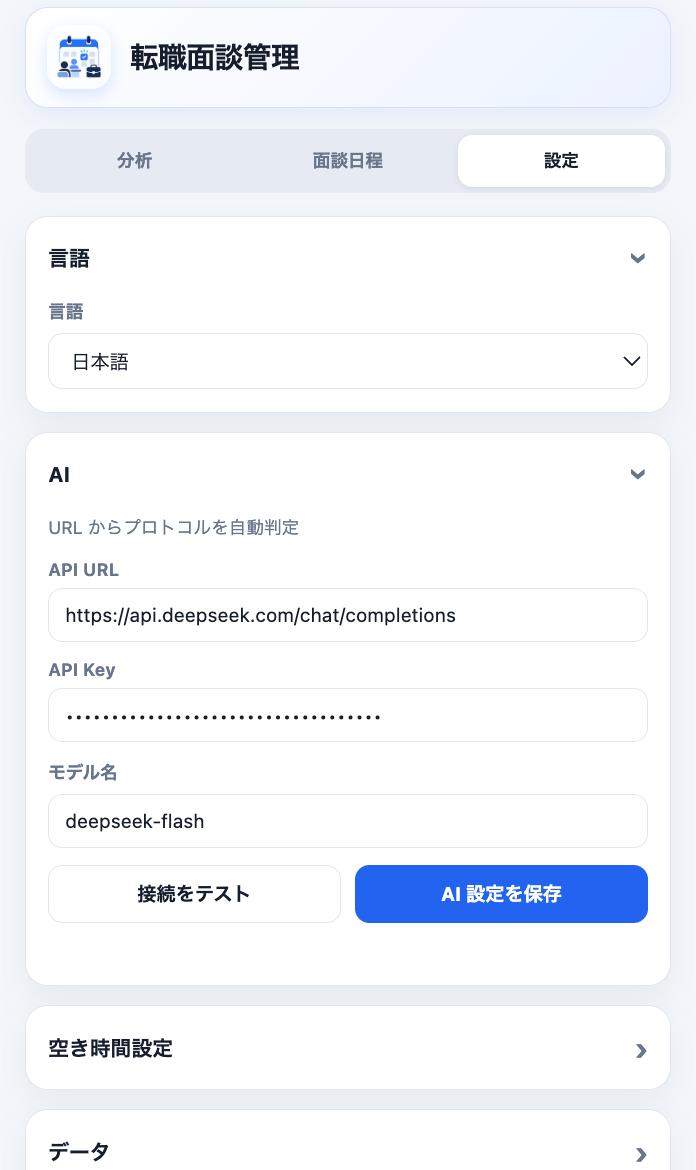
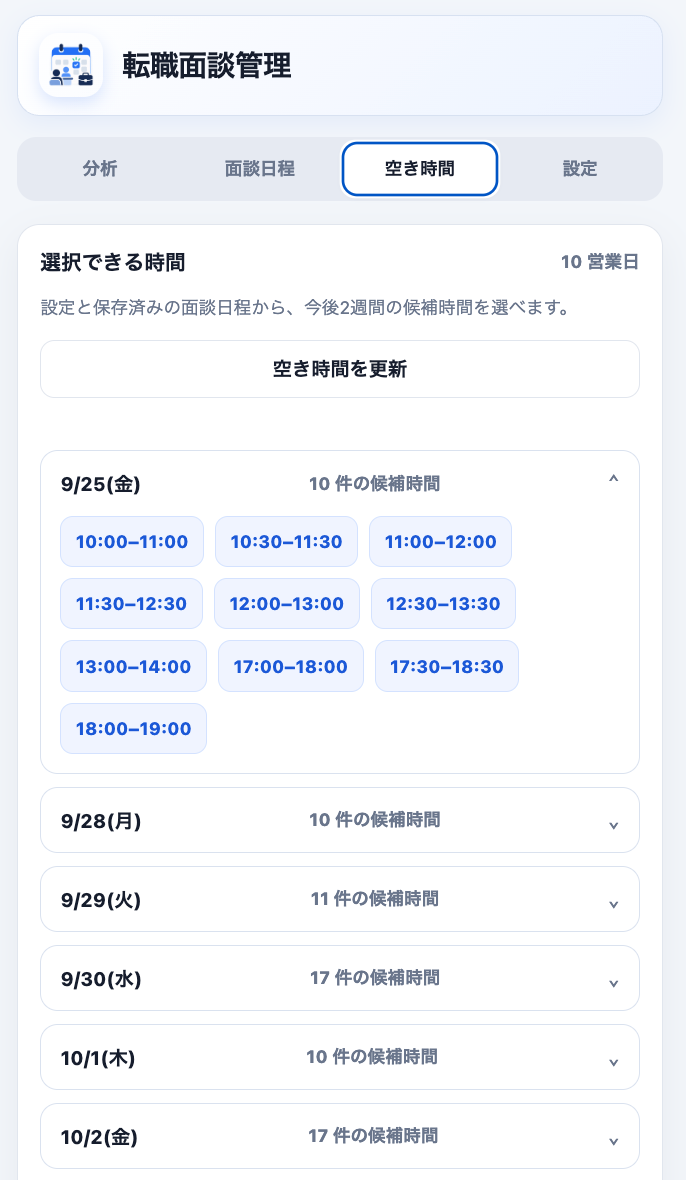
update image

diff --git a/popup.js b/popup.js
@@ -13,10 +13,10 @@ const TRANSLATIONS = {
     analyzeCurrent: "分析当前对话", copyConversation: "复制原始对话", checkingConversation: "正在检查当前会话。",
     latestInterview: "最新面试安排", analysisResultTitle: "分析结果", analyzingConversation: "正在分析当前对话…", analysisEmpty: "分析后显示已确定、暂定的面试或候选时间请求。",
     scheduleTitle: "面试日程", scheduleEmpty: "还没有确定或暂定的面试。", editSchedule: "编辑时间安排", cancel: "取消",
-    title: "标题", start: "开始", end: "结束", saveChanges: "保存更新", language: "语言",
+    title: "标题", start: "开始", end: "结束", saveChanges: "保存更新", language: "语言", privacyMode: "隐私模式",
     protocolHint: "根据 URL 自动判断协议", modelName: "模型名称", testConnection: "测试连接", saveAi: "保存 AI 设置", scheduling: "日程设置",
     availableFrom: "每天开始", availableTo: "每天结束", duration: "面谈时长", buffer: "面试时间前后余量（分钟）", candidateCount: "候选数量",
-    saveSettings: "保存设置", data: "数据", importData: "导入数据", exportData: "导出数据", clearData: "清空本地数据",
+    saveSettings: "保存设置", privacyNotSaved: "隐私模式已在当前窗口生效，但未能保存设置。", data: "数据", importData: "导入数据", exportData: "导出数据", clearData: "清空本地数据",
     dataFooter: "API Key、消息、分析结果和面试日程都保存在此浏览器的扩展本地存储中。",
     unreadable: "当前页面不可读取", openFindy: "请打开 Findy 或 BizReach 的对话页面后重新打开插件。", messageCount: "{count} 条消息",
     updatedAt: "更新于 {time}", noConfirmed: "当前没有已确定的面试", noConfirmedDesc: "对话中没有明确确认的面试时间。",
@@ -40,10 +40,10 @@ const TRANSLATIONS = {
     analyzeCurrent: "Analyze current conversation", copyConversation: "Copy conversation", checkingConversation: "Checking the current conversation.",
     latestInterview: "Latest interview arrangement", analysisResultTitle: "Analysis result", analyzingConversation: "Analyzing the current conversation…", analysisEmpty: "A confirmed or tentative interview, or request for candidate times, will appear here.",
     scheduleTitle: "Interview schedule", scheduleEmpty: "No confirmed or tentative interviews yet.", editSchedule: "Edit interview", cancel: "Cancel",
-    title: "Title", start: "Start", end: "End", saveChanges: "Save changes", language: "Language",
+    title: "Title", start: "Start", end: "End", saveChanges: "Save changes", language: "Language", privacyMode: "Privacy mode",
     protocolHint: "Protocol is detected from the URL", modelName: "Model", testConnection: "Test connection", saveAi: "Save AI settings", scheduling: "Schedule settings",
     availableFrom: "Daily start", availableTo: "Daily end", duration: "Duration", buffer: "Minutes blocked before and after an interview", candidateCount: "Candidate slots",
-    saveSettings: "Save settings", data: "Data", importData: "Import data", exportData: "Export data", clearData: "Clear local data",
+    saveSettings: "Save settings", privacyNotSaved: "Privacy mode is active in this window, but the setting could not be saved.", data: "Data", importData: "Import data", exportData: "Export data", clearData: "Clear local data",
     dataFooter: "The API key, messages, analysis results, and interview schedule are stored locally in this browser extension.",
     unreadable: "This page cannot be read", openFindy: "Open a Findy or BizReach conversation and reopen the extension.", messageCount: "{count} messages",
     updatedAt: "Updated {time}", noConfirmed: "No confirmed interview", noConfirmedDesc: "The conversation does not contain a clearly confirmed interview time.",
@@ -67,10 +67,10 @@ const TRANSLATIONS = {
     analyzeCurrent: "現在の会話を分析", copyConversation: "元の会話をコピー", checkingConversation: "現在の会話を確認しています。",
     latestInterview: "最新の面談予定", analysisResultTitle: "分析結果", analyzingConversation: "現在の会話を分析しています…", analysisEmpty: "分析後、確定・仮予定の面談または候補日時の提示依頼を表示します。",
     scheduleTitle: "面談日程", scheduleEmpty: "確定または仮予定の面談はまだありません。", editSchedule: "日程を編集", cancel: "キャンセル",
-    title: "タイトル", start: "開始", end: "終了", saveChanges: "変更を保存", language: "言語",
+    title: "タイトル", start: "開始", end: "終了", saveChanges: "変更を保存", language: "言語", privacyMode: "プライバシーモード",
     protocolHint: "URL からプロトコルを自動判定", modelName: "モデル名", testConnection: "接続をテスト", saveAi: "AI 設定を保存", scheduling: "日程設定",
     availableFrom: "毎日の開始時刻", availableTo: "毎日の終了時刻", duration: "面談時間", buffer: "面談時刻の前後に空ける時間（分）", candidateCount: "候補数",
-    saveSettings: "設定を保存", data: "データ", importData: "データを読み込む", exportData: "データを書き出す", clearData: "ローカルデータを消去",
+    saveSettings: "設定を保存", privacyNotSaved: "この画面ではプライバシーモードが有効ですが、設定を保存できませんでした。", data: "データ", importData: "データを読み込む", exportData: "データを書き出す", clearData: "ローカルデータを消去",
     dataFooter: "API キー、メッセージ、分析結果、面談日程は、このブラウザ拡張機能のローカルストレージに保存されます。",
     unreadable: "現在のページを読み取れません", openFindy: "Findy または BizReach の会話ページを開いてから、拡張機能を開き直してください。", messageCount: "{count} 件のメッセージ",
     updatedAt: "更新：{time}", noConfirmed: "確定済みの面談はありません", noConfirmedDesc: "会話内に明確に確定した面談日時がありません。",
@@ -93,6 +93,7 @@ const TRANSLATIONS = {
 function createDefaultSettings() {
   return {
     language: "zh",
+    privacyMode: false,
     availabilityVersion: 1,
     openSettingsSections: ["language", "ai", "availability"],
     ai: {
@@ -119,6 +120,10 @@ function t(key, values = {}) {
     text = text.replaceAll(`{${name}}`, String(value));
   }
   return text;
+}
+
+function privacyText(value) {
+  return state.settings.privacyMode && value ? "****" : value;
 }
 
 function applyTranslations() {
@@ -1796,7 +1801,7 @@ function renderAnalyze() {
 
   sourcePlatform.innerHTML = platformLogoMarkup(currentSnapshot.platform || currentSnapshot.source);
   sourcePlatform.classList.remove("hidden");
-  sourceName.textContent = currentSnapshot.companyName || "未识别公司";
+  sourceName.textContent = privacyText(currentSnapshot.companyName || "未识别公司");
   sourceInfo.textContent = t("messageCount", { count: currentSnapshot.messages.length });
   analyzeButton.disabled = currentSnapshot.messages.length === 0;
   copyRawButton.disabled = currentSnapshot.messages.length === 0;
@@ -1849,8 +1854,8 @@ function renderSchedule() {
     const company = state.companies.find(candidate => candidate.id === item.companyId);
     const { jobUrl, messageUrl } = sourceLinksForCompany(company);
     const sourceLink = (url, label) => url
-      ? `<a class="secondary-button schedule-source-link" href="${escapeHtml(url)}" target="_blank" rel="noopener noreferrer">${escapeHtml(label)}</a>`
-      : `<span class="secondary-button schedule-source-link unavailable" aria-disabled="true">${escapeHtml(label)}</span>`;
+      ? `<a class="secondary-button schedule-source-link" href="${escapeHtml(url)}" target="_blank" rel="noopener noreferrer">${escapeHtml(privacyText(label))}</a>`
+      : `<span class="secondary-button schedule-source-link unavailable" aria-disabled="true">${escapeHtml(privacyText(label))}</span>`;
     const sourceAnalysis = state.analyses.find(analysis => analysis.id === item.sourceAnalysisId);
     const savedInterview = sourceAnalysis?.result?.latestConfirmedInterview || {};
     const contactName = item.contactName || savedInterview.contactName || "";
@@ -1887,7 +1892,7 @@ function renderSchedule() {
             <div class="schedule-company-row">
               <div class="schedule-company-main">
                 ${platformLogoMarkup(platform)}
-                <div class="schedule-company">${escapeHtml(company?.name || "未命名公司")}</div>
+                <div class="schedule-company">${escapeHtml(privacyText(company?.name || "未命名公司"))}</div>
               </div>
               <span class="badge ${isTentative ? "warning" : "success"}">${escapeHtml(t(isTentative ? "tentative" : "confirmed"))}</span>
             </div>
@@ -1899,10 +1904,10 @@ function renderSchedule() {
           </div>
           ${(contactName || method || location || notes) ? `
             <div class="schedule-details">
-              ${contactName ? `<div class="schedule-detail"><span class="schedule-detail-label">${escapeHtml(t("contact"))}</span><span class="schedule-detail-value">${escapeHtml(contactName)}</span></div>` : ""}
+              ${contactName ? `<div class="schedule-detail"><span class="schedule-detail-label">${escapeHtml(t("contact"))}</span><span class="schedule-detail-value">${escapeHtml(privacyText(contactName))}</span></div>` : ""}
               ${method ? `<div class="schedule-detail"><span class="schedule-detail-label">${escapeHtml(t("method"))}</span><span class="schedule-detail-value">${escapeHtml(method)}</span></div>` : ""}
-              ${location ? `<div class="schedule-detail"><span class="schedule-detail-label">${escapeHtml(t("location"))}</span><span class="schedule-detail-value">${escapeHtml(location)}</span></div>` : ""}
-              ${notes ? `<div class="schedule-detail"><span class="schedule-detail-label">${escapeHtml(t("notes"))}</span><span class="schedule-detail-value">${escapeHtml(notes)}</span></div>` : ""}
+              ${location ? `<div class="schedule-detail"><span class="schedule-detail-label">${escapeHtml(t("location"))}</span><span class="schedule-detail-value">${escapeHtml(privacyText(location))}</span></div>` : ""}
+              ${notes ? `<div class="schedule-detail"><span class="schedule-detail-label">${escapeHtml(t("notes"))}</span><span class="schedule-detail-value">${escapeHtml(privacyText(notes))}</span></div>` : ""}
             </div>` : ""}
         </div>
       </div>`;
@@ -1925,6 +1930,7 @@ function hideScheduleEditor() {
 }
 
 function renderSettings() {
+  document.getElementById("privacyMode").setAttribute("aria-checked", String(Boolean(state.settings.privacyMode)));
   document.getElementById("apiUrl").value = state.settings.ai?.url || "";
   document.getElementById("apiKey").value = state.settings.ai?.apiKey || "";
   document.getElementById("model").value = state.settings.ai?.model || "";
@@ -2299,6 +2305,20 @@ function bindEvents() {
     if (!saved || saved.schemaVersion !== CURRENT_SCHEMA_VERSION) return;
     state = normalizeStoredState(saved);
     renderAll();
+  });
+
+  document.getElementById("privacyMode").addEventListener("click", async event => {
+    state.settings.privacyMode = !state.settings.privacyMode;
+    event.currentTarget.setAttribute("aria-checked", String(state.settings.privacyMode));
+    renderAnalyze();
+    renderSchedule();
+    const status = document.getElementById("privacyStatus");
+    try {
+      await saveState();
+      setStatus(status, t("settingsSaved"), "success");
+    } catch (error) {
+      setStatus(status, t("privacyNotSaved"), "error");
+    }
   });
 
   document.getElementById("language").addEventListener("change", async event => {

diff --git a/popup.html b/popup.html
@@ -471,6 +471,40 @@
     .availability-selection-item { padding: 8px 10px; border-radius: 8px; background: var(--primary-soft); color: var(--text); }
 
     .settings-section { padding: 0; overflow: hidden; }
+    .privacy-toggle {
+      display: flex;
+      align-items: center;
+      justify-content: space-between;
+      gap: 12px;
+      font-size: 12px;
+      font-weight: 700;
+    }
+    .privacy-switch {
+      position: relative;
+      flex: 0 0 44px;
+      width: 44px;
+      height: 26px;
+      padding: 0;
+      border: 0;
+      border-radius: 999px;
+      background: #cbd3df;
+      transition: background 0.18s ease;
+    }
+    .privacy-switch[aria-checked="true"] { background: var(--primary); }
+    .privacy-switch::after {
+      content: "";
+      position: absolute;
+      top: 3px;
+      left: 3px;
+      width: 20px;
+      height: 20px;
+      border-radius: 50%;
+      background: #fff;
+      box-shadow: 0 1px 3px rgba(27, 45, 78, 0.25);
+      transition: transform 0.18s ease;
+    }
+    .privacy-switch[aria-checked="true"]::after { transform: translateX(18px); }
+    .privacy-switch:focus-visible { outline: 2px solid var(--primary); outline-offset: 3px; }
     .settings-section > summary {
       display: flex;
       align-items: center;
@@ -726,6 +760,14 @@
     </section>
 
     <section id="view-settings" class="view">
+      <div class="card">
+        <div class="privacy-toggle">
+          <span id="privacyModeLabel" data-i18n="privacyMode">隐私模式</span>
+          <button id="privacyMode" class="privacy-switch" type="button" role="switch" aria-checked="false" aria-labelledby="privacyModeLabel"></button>
+        </div>
+        <div id="privacyStatus" class="status-message"></div>
+      </div>
+
       <details class="card settings-section" data-settings-section="language" open>
         <summary data-i18n="language">语言</summary>
         <div class="settings-content">

diff --git a/README.md b/README.md
@@ -39,8 +39,8 @@ Findy と BizReach の採用担当者との会話を AI で整理し、確定し
     <td align="center"><strong>候補日時の返信待ち</strong></td>
   </tr>
   <tr>
-    <td><img src="./images/tab1type1.png" alt="確定した面談の分析結果" width="360" height="605"></td>
-    <td><img src="./images/tab1type2.png" alt="候補日時と空き時間の分析結果" width="360" height="605"></td>
+    <td><img src="./images/tab1.png" alt="確定した面談の分析結果" width="360" height="605"></td>
+    <td><img src="./images/tab2.png" alt="候補日時と空き時間の分析結果" width="360" height="605"></td>
   </tr>
 </table>
 
@@ -52,8 +52,8 @@ Findy と BizReach の採用担当者との会話を AI で整理し、確定し
     <td align="center"><strong>設定</strong></td>
   </tr>
   <tr>
-    <td><img src="./images/tab2.png" alt="面談日程の一覧" width="360" height="605"></td>
-    <td><img src="./images/tab3.png" alt="言語、AI、空き時間の設定" width="360" height="605"></td>
+    <td><img src="./images/tab3.png" alt="面談日程の一覧" width="360" height="605"></td>
+    <td><img src="./images/tab4.png" alt="言語、AI、空き時間の設定" width="360" height="605"></td>
   </tr>
 </table>
 
